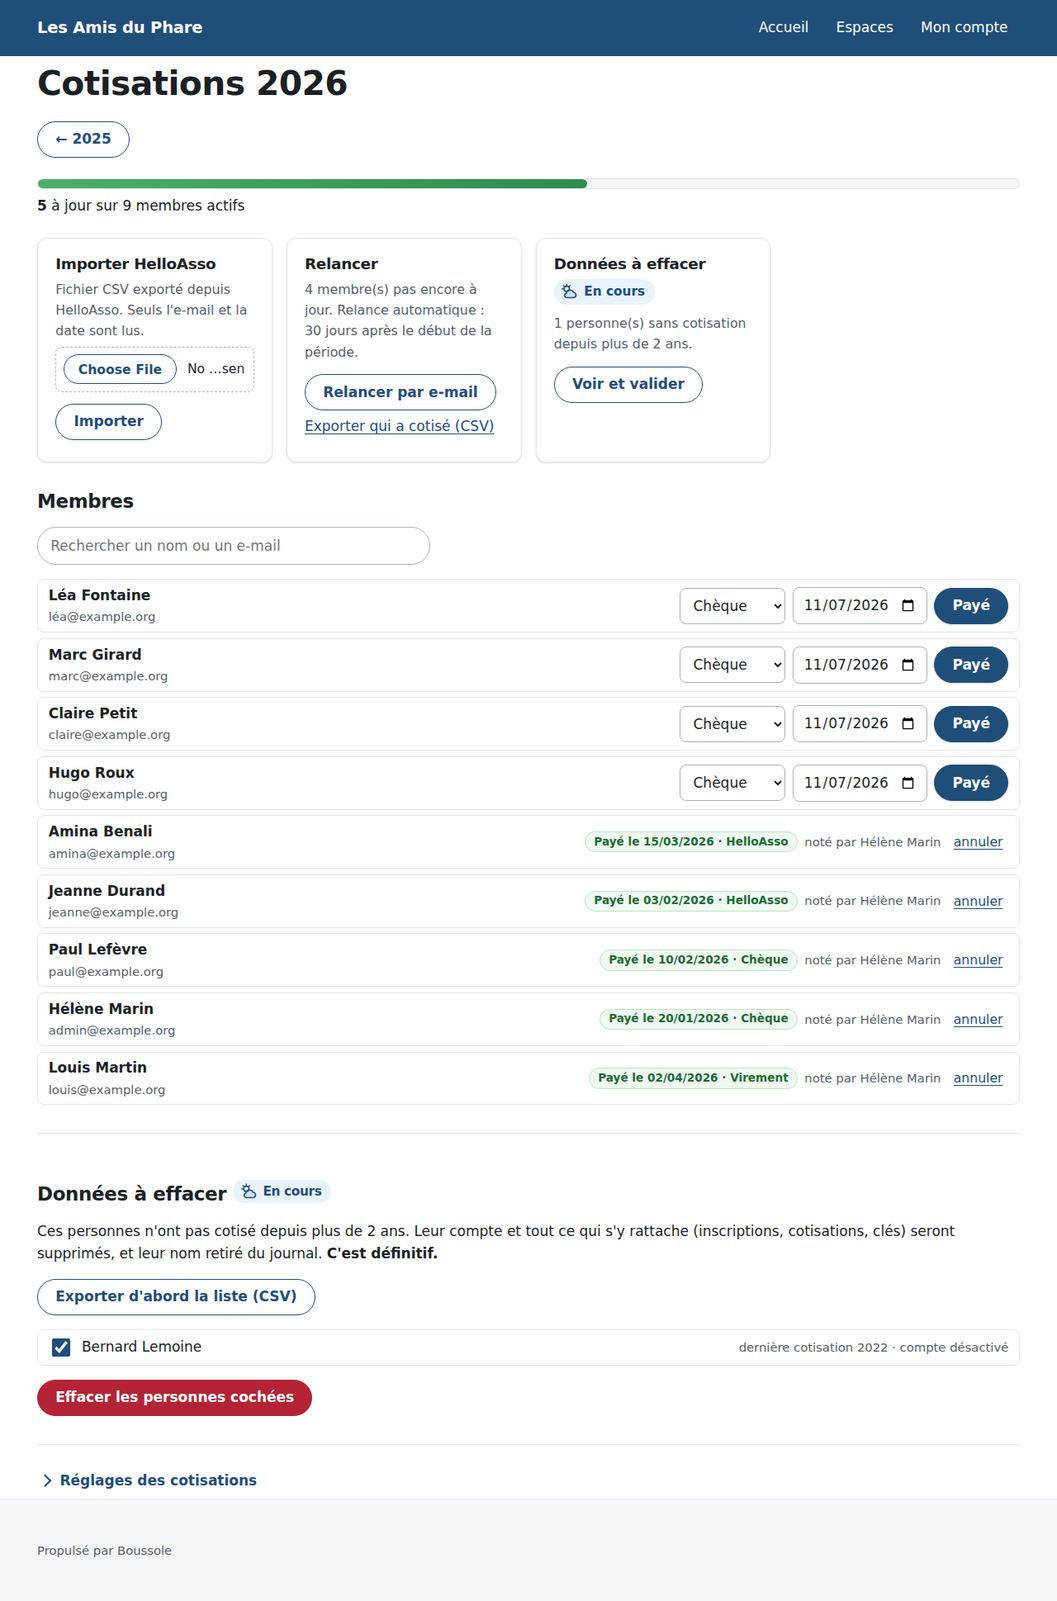
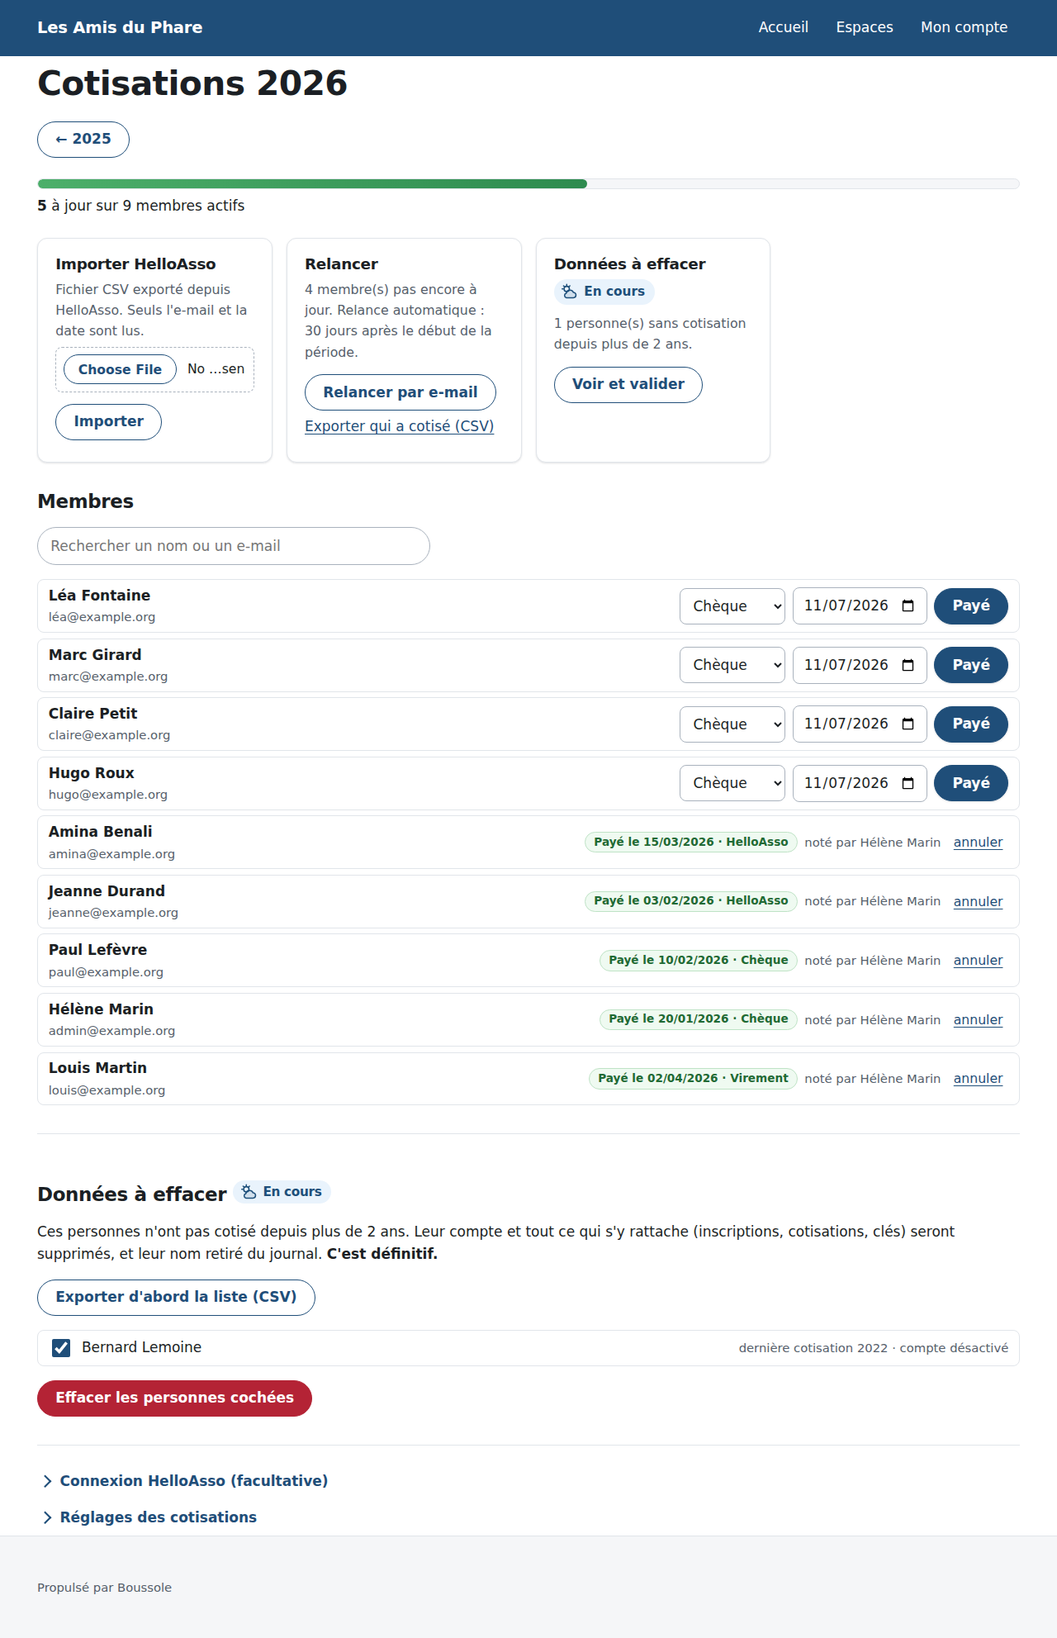
Étape 9 : connexion HelloAsso facultative (API officielle, lecture toutes les 10 minutes et à chaque notification, notification jamais crue, jeton réutilisé, secret chiffré) pour les adhésions et les billetteries d'événements
Tests : e2e-etape9.sh 18 OK avec un faux serveur HelloAsso local ; régression de toutes les étapes OK.

diff --git a/app/core/helloasso.php b/app/core/helloasso.php
@@ -1,0 +1,120 @@
+<?php
+// Connexion HelloAsso (facultative) : lit les paiements des formulaires d'adhésion et de billetterie.
+// Seuls l'e-mail du payeur et la date sont gardés. Une notification HelloAsso ne fait que déclencher
+// une lecture de l'API : son contenu n'est jamais cru (HelloAsso ne signe pas ses notifications).
+declare(strict_types=1);
+
+function helloasso_actif(): bool
+{
+    return setting('helloasso_client_id', '') !== '' && setting('helloasso_secret', '') !== '' && setting('helloasso_organisation', '') !== '';
+}
+
+function helloasso_api(): string
+{
+    return rtrim((string) (config()['helloasso_api'] ?? 'https://api.helloasso.com'), '/');
+}
+
+function helloasso_http(string $method, string $url, array $headers, ?string $body = null): array
+{
+    $context = stream_context_create(['http' => [
+        'method' => $method, 'header' => implode("\r\n", $headers), 'content' => $body ?? '',
+        'timeout' => 15, 'ignore_errors' => true, 'user_agent' => 'Boussole/' . BOUSSOLE_VERSION,
+    ], 'ssl' => ['verify_peer' => true, 'verify_peer_name' => true]]);
+    $response = @file_get_contents($url, false, $context);
+    $status = isset($http_response_header[0]) && preg_match('/\s(\d{3})\s?/', $http_response_header[0], $m) ? (int) $m[1] : 0;
+    return [$status, $response === false ? null : json_decode($response, true)];
+}
+
+// Jeton d'accès gardé chiffré 25 minutes (valable 30) : peu d'appels au service d'authentification, limité par HelloAsso
+function helloasso_jeton(): ?string
+{
+    $cache = secret_decrypt((string) setting('helloasso_jeton', ''));
+    if ($cache !== null && (int) setting('helloasso_jeton_expire', '0') > time()) {
+        return $cache;
+    }
+    $secret = secret_decrypt((string) setting('helloasso_secret', ''));
+    [$status, $data] = helloasso_http('POST', helloasso_api() . '/oauth2/token', ['Content-Type: application/x-www-form-urlencoded'],
+        http_build_query(['grant_type' => 'client_credentials', 'client_id' => (string) setting('helloasso_client_id', ''), 'client_secret' => (string) $secret]));
+    if ($status !== 200 || !is_string($data['access_token'] ?? null)) {
+        setting_set('helloasso_erreur', 'Connexion refusée par HelloAsso (identifiant ou secret à vérifier), code ' . $status);
+        return null;
+    }
+    setting_set('helloasso_jeton', secret_encrypt($data['access_token']));
+    setting_set('helloasso_jeton_expire', (string) (time() + 25 * 60));
+    return $data['access_token'];
+}
+
+// Paiements autorisés d'un formulaire depuis une date : [[email, date], …]
+function helloasso_paiements(string $jeton, string $type, string $formulaire, string $depuis): ?array
+{
+    $base = helloasso_api() . '/v5/organizations/' . rawurlencode((string) setting('helloasso_organisation', '')) . '/forms/' . $type . '/' . rawurlencode($formulaire) . '/payments';
+    $query = ['from' => $depuis, 'states' => 'Authorized', 'pageSize' => 100, 'sortOrder' => 'Asc', 'sortField' => 'Date'];
+    $paiements = [];
+    for ($page = 0; $page < 50; $page++) {
+        [$status, $data] = helloasso_http('GET', $base . '?' . http_build_query($query), ['Authorization: Bearer ' . $jeton, 'Accept: application/json']);
+        if ($status !== 200 || !is_array($data)) {
+            setting_set('helloasso_erreur', "Formulaire « $formulaire » illisible (code $status) : nom du formulaire ou droits de la clé à vérifier");
+            return null;
+        }
+        foreach ((array) ($data['data'] ?? []) as $p) {
+            $email = mb_strtolower(trim((string) ($p['payer']['email'] ?? '')));
+            $date = cotisation_lire_date(substr((string) ($p['date'] ?? ''), 0, 10));
+            if (filter_var($email, FILTER_VALIDATE_EMAIL) && $date !== null && ($p['state'] ?? 'Authorized') === 'Authorized') {
+                $paiements[] = [$email, $date];
+            }
+        }
+        $suite = $data['pagination']['continuationToken'] ?? null;
+        if (count((array) ($data['data'] ?? [])) < 100 || !is_string($suite) || $suite === '') {
+            break;
+        }
+        $query['continuationToken'] = $suite;
+    }
+    return $paiements;
+}
+
+// Synchronisation : adhésions → cotisations ; billetteries → « payé » sur les inscriptions. Renvoie le nombre de mises à jour.
+function helloasso_synchroniser(bool $force = false): int
+{
+    if (!helloasso_actif()) {
+        return 0;
+    }
+    $intervalle = max(5, (int) setting('helloasso_intervalle', '10')) * 60;
+    if (!$force && (int) setting('helloasso_derniere', '0') + $intervalle - 30 > time()) {
+        return 0;
+    }
+    setting_set('helloasso_derniere', (string) time());
+    $jeton = helloasso_jeton();
+    if ($jeton === null) {
+        return 0;
+    }
+    // On relit les 3 derniers jours à chaque passage : un paiement tardif ou une coupure ne fait rien perdre
+    $depuis = date('Y-m-d\T00:00:00', strtotime('-3 days'));
+    $n = 0;
+    $formulaire = (string) setting('helloasso_adhesion', '');
+    if ($formulaire !== '') {
+        $paiements = helloasso_paiements($jeton, 'Membership', $formulaire, (string) setting('helloasso_premiere', '') === '' ? cotisation_debut_periode(cotisation_periode()) . 'T00:00:00' : $depuis);
+        if ($paiements === null) {
+            return $n;
+        }
+        setting_set('helloasso_premiere', '1');
+        foreach ($paiements as [$email, $date]) {
+            $member = db_one('SELECT * FROM membre WHERE email = ?', [$email]);
+            if ($member !== null && cotisation_a_jour($member, cotisation_periode($date)) === null) {
+                cotisation_marquer($member, cotisation_periode($date), $date, 'helloasso', null);
+                $n++;
+            }
+        }
+    }
+    foreach (db_all('SELECT e.* FROM evenement e JOIN espace s ON s.id = e.espace_id WHERE e.helloasso_formulaire IS NOT NULL AND e.helloasso_formulaire <> "" AND s.archive = 0 AND (e.debut IS NULL OR e.debut >= CURDATE() - INTERVAL 7 DAY)') as $ev) {
+        $paiements = helloasso_paiements($jeton, 'Event', $ev['helloasso_formulaire'], date('Y-m-d\T00:00:00', strtotime('-1 year')));
+        if ($paiements === null) {
+            return $n;
+        }
+        foreach ($paiements as [$email, $date]) {
+            $n += db_query('UPDATE inscription i JOIN membre m ON m.id = i.membre_id SET i.paye_le = ? WHERE i.evenement_id = ? AND m.email = ? AND i.paye_le IS NULL', [$date, $ev['espace_id'], $email])->rowCount();
+        }
+    }
+    setting_set('helloasso_erreur', '');
+    setting_set('helloasso_reussie', date('Y-m-d H:i:s'));
+    return $n;
+}

diff --git a/app/modules/cotisations/views/liste.php b/app/modules/cotisations/views/liste.php
@@ -86,7 +86,27 @@ $actuelle = cotisation_periode();
 </section>
 <?php endif ?>
 
-<details class="separe"><summary>Réglages des cotisations</summary>
+<details class="separe" id="helloasso"><summary>Connexion HelloAsso (facultative)</summary>
+  <?php if (helloasso_actif()): ?>
+  <p><?= setting('helloasso_erreur', '') !== '' ? '<span class="badge">À vérifier</span> ' . e((string) setting('helloasso_erreur')) : '<span class="badge badge-ok">Active</span> ' . (setting('helloasso_reussie', '') !== '' ? 'dernière lecture le ' . e(date('d/m/Y à H:i', strtotime((string) setting('helloasso_reussie')))) : 'pas encore lue') ?></p>
+  <form method="post" action="<?= e(url('/cotisations/helloasso/synchroniser')) ?>"><?= csrf_field() ?><button type="submit" class="bouton bouton-secondaire">Lire HelloAsso maintenant</button></form>
+  <p class="petit">Pour une mise à jour immédiate à chaque paiement, collez cette adresse dans HelloAsso, « Mon compte › Intégrations et API › notifications » :<br><code class="cle"><?= e(absolute_url('/helloasso/notification/' . setting('helloasso_notification_cle', ''))) ?></code></p>
+  <?php else: ?>
+  <p class="petit">Sans connexion, utilisez l'import du fichier CSV. Avec : les paiements HelloAsso cochent « payé » tout seuls, toutes les quelques minutes. Seuls l'e-mail et la date sont lus.</p>
+  <?php endif ?>
+  <form method="post" action="<?= e(url('/cotisations/helloasso')) ?>" class="formulaire">
+    <?= csrf_field() ?>
+    <?= c_champ('helloasso_organisation', "Nom de l'association dans HelloAsso", ['valeur' => (string) setting('helloasso_organisation', ''), 'aide' => 'Ce qui suit /associations/ dans l\'adresse de votre page HelloAsso (vous pouvez coller l\'adresse entière).']) ?>
+    <?= c_champ('helloasso_adhesion', "Formulaire d'adhésion", ['valeur' => (string) setting('helloasso_adhesion', ''), 'aide' => 'Ce qui suit /adhesions/ dans l\'adresse du formulaire (ou l\'adresse entière).']) ?>
+    <?= c_champ('helloasso_client_id', 'Identifiant (client id)', ['valeur' => (string) setting('helloasso_client_id', ''), 'aide' => 'HelloAsso › Mon compte › Intégrations et API.']) ?>
+    <?= c_champ('helloasso_secret', 'Secret (client secret)', ['type' => 'password', 'aide' => setting('helloasso_secret', '') !== '' ? 'Enregistré (chiffré). Laisser vide pour le garder.' : 'Gardé chiffré.']) ?>
+    <?= c_champ('helloasso_intervalle', 'Lire HelloAsso toutes les (minutes)', ['type' => 'number', 'valeur' => (string) setting('helloasso_intervalle', '10')]) ?>
+    <?php if (helloasso_actif()): ?><label class="case"><input type="checkbox" name="desactiver" value="1"> Désactiver la connexion (efface le secret)</label><?php endif ?>
+    <button type="submit" class="bouton bouton-secondaire">Enregistrer</button>
+  </form>
+</details>
+
+<details><summary>Réglages des cotisations</summary>
 <form method="post" action="<?= e(url('/cotisations/reglages')) ?>" class="formulaire">
   <?= csrf_field() ?>
   <?= c_champ('cotisation_mois_debut', 'La période de cotisation commence en', ['type' => 'select', 'valeur' => (string) cotisation_mois_debut(), 'choix' => array_combine(range(1, 12), ['janvier', 'février', 'mars', 'avril', 'mai', 'juin', 'juillet', 'août', 'septembre', 'octobre', 'novembre', 'décembre'])]) ?>

diff --git a/app/modules/cotisations/module.php b/app/modules/cotisations/module.php
@@ -93,6 +93,46 @@ return [
             flash('succes', "$n membre(s) effacé(s).");
             redirect('/cotisations');
         }],
+        ['POST', '/cotisations/helloasso', function () {
+            $par = require_right('cotisations');
+            $slug = fn(string $k) => strtolower(trim(preg_replace('#^.*/#', '', trim((string) ($_POST[$k] ?? '')))));
+            foreach (['helloasso_organisation' => $slug('helloasso_organisation'), 'helloasso_adhesion' => $slug('helloasso_adhesion'),
+                'helloasso_client_id' => mb_substr(trim((string) ($_POST['helloasso_client_id'] ?? '')), 0, 100),
+                'helloasso_intervalle' => (string) max(5, min(1440, (int) ($_POST['helloasso_intervalle'] ?? 10)))] as $cle => $valeur) {
+                setting_set($cle, $valeur);
+            }
+            if (trim((string) ($_POST['helloasso_secret'] ?? '')) !== '') {
+                setting_set('helloasso_secret', secret_encrypt(trim((string) $_POST['helloasso_secret'])));
+            }
+            if (($_POST['desactiver'] ?? '') === '1') {
+                setting_set('helloasso_secret', '');
+            }
+            // Nouveaux identifiants : nouveau jeton, et première lecture depuis le début de la période
+            setting_set('helloasso_jeton', '');
+            setting_set('helloasso_premiere', '');
+            if (setting('helloasso_notification_cle', '') === '') {
+                setting_set('helloasso_notification_cle', bin2hex(random_bytes(16)));
+            }
+            journal(null, $par, 'Connexion HelloAsso modifiée');
+            flash('succes', 'Connexion HelloAsso enregistrée.');
+            redirect('/cotisations#helloasso');
+        }],
+        ['POST', '/cotisations/helloasso/synchroniser', function () {
+            require_right('cotisations');
+            $n = helloasso_synchroniser(true);
+            $erreur = (string) setting('helloasso_erreur', '');
+            $erreur !== '' ? flash('erreur', $erreur) : flash('succes', "HelloAsso lu : $n mise(s) à jour.");
+            redirect('/cotisations#helloasso');
+        }],
+        // Adresse à donner à HelloAsso (« Mon compte > Intégrations et API ») : un paiement déclenche une lecture immédiate
+        ['POST', '/helloasso/notification/{cle}', function (array $p) {
+            $cle = (string) setting('helloasso_notification_cle', '');
+            if ($cle !== '' && hash_equals($cle, $p['cle']) && !too_many_attempts('helloasso|notification', 20, 10)) {
+                helloasso_synchroniser(true);
+            }
+            // Toujours 200 : HelloAsso ne réessaie pas inutilement, et l'appelant n'apprend rien
+            http_response_code(200);
+        }],
         ['POST', '/cotisations/reglages', function () {
             $par = require_right('cotisations');
             $mois = (int) ($_POST['cotisation_mois_debut'] ?? 1);

diff --git a/app/modules/evenements/views/bloc.php b/app/modules/evenements/views/bloc.php
@@ -84,6 +84,7 @@ $aide = c_aide('comment les places sont attribuées', '<p><strong>Pas de course 
     <?php foreach ($liste as $l): ?>
     <li class="en-ligne candidat case"><span class="qui"><?= $groupe($l['groupe'] !== null ? (int) $l['groupe'] : null) ?> <?= e(membre_nom($l)) ?></span>
       <span class="en-ligne"><span class="badge"><?= e(INSCRIPTION_STATUTS[$l['statut']] . ($l['statut'] === 'attente' ? ' n°' . (int) $l['rang'] : '')) ?></span>
+      <?php if ($l['paye_le'] !== null): ?><span class="badge badge-ok">payé le <?= e(date('d/m', strtotime($l['paye_le']))) ?></span><?php endif ?>
       <?php if ($l['statut'] === 'retenu' && !$commence): ?>
       <form method="post" action="<?= $lien('/annuler') ?>"><?= csrf_field() ?><input type="hidden" name="membre_id" value="<?= (int) $l['membre_id'] ?>"><button type="submit" class="lien-bouton" data-confirmer="Annuler l'inscription de <?= e(membre_nom($l)) ?> ? Sa place ira au suivant de la liste d'attente.">annuler</button></form>
       <?php endif ?></span></li>
@@ -98,6 +99,7 @@ $aide = c_aide('comment les places sont attribuées', '<p><strong>Pas de course 
     <?= c_champ('lieu', 'Lieu', ['valeur' => $ev['lieu'], 'max' => 200]) ?>
     <?= c_champ('mode', 'Inscriptions', ['type' => 'select', 'valeur' => $ev['mode'], 'choix' => EVENEMENT_MODES]) ?>
     <?= c_champ('places', 'Nombre de places (places limitées)', ['type' => 'number', 'valeur' => (string) ($ev['places'] ?? '')]) ?>
+    <?php if (helloasso_actif()): ?><?= c_champ('helloasso_formulaire', 'Billetterie HelloAsso (facultatif)', ['valeur' => (string) ($ev['helloasso_formulaire'] ?? ''), 'aide' => 'Adresse ou nom du formulaire d\'événement : les inscrits qui ont payé sont marqués « payé ».']) ?><?php endif ?>
     <?= c_champ('cloture', 'Clôture des vœux (places limitées)', ['type' => 'datetime-local', 'valeur' => $ev['cloture'] ? date('Y-m-d\TH:i', strtotime($ev['cloture'])) : '']) ?>
     <button type="submit" class="bouton bouton-secondaire">Enregistrer</button>
   </form>

diff --git a/tests/helloasso-simule.php b/tests/helloasso-simule.php
@@ -1,0 +1,34 @@
+<?php
+// Faux serveur HelloAsso pour les tests (serveur intégré de PHP) : jeton OAuth2 et liste des paiements.
+// Données : $DOSSIER/paiements-<type>-<formulaire>.json ; compteurs d'appels : $DOSSIER/appels-*.txt
+$dossier = getenv('HELLOASSO_SIMULE');
+$path = parse_url($_SERVER['REQUEST_URI'], PHP_URL_PATH);
+$compter = fn(string $quoi) => file_put_contents("$dossier/appels-$quoi.txt", '.', FILE_APPEND);
+header('Content-Type: application/json');
+if ($path === '/oauth2/token' && $_SERVER['REQUEST_METHOD'] === 'POST') {
+    $compter('jeton');
+    if (($_POST['grant_type'] ?? '') !== 'client_credentials' || ($_POST['client_id'] ?? '') !== 'id-test' || ($_POST['client_secret'] ?? '') !== 'secret-test') {
+        http_response_code(401);
+        echo '{"error":"unauthorized_client"}';
+        return;
+    }
+    echo json_encode(['access_token' => 'jeton-simule', 'token_type' => 'bearer', 'expires_in' => 1800]);
+    return;
+}
+if (preg_match('#^/v5/organizations/les-amis-du-phare/forms/(Membership|Event)/([a-z0-9-]+)/payments$#', $path, $m)) {
+    $compter('paiements');
+    if (($_SERVER['HTTP_AUTHORIZATION'] ?? '') !== 'Bearer jeton-simule') {
+        http_response_code(401);
+        return;
+    }
+    $file = "$dossier/paiements-{$m[1]}-{$m[2]}.json";
+    $data = is_file($file) ? json_decode(file_get_contents($file), true) : null;
+    if ($data === null) {
+        http_response_code(404);
+        echo '{"errors":[{"message":"not found"}]}';
+        return;
+    }
+    echo json_encode(['data' => $data, 'pagination' => ['pageSize' => 100, 'totalCount' => count($data), 'pageIndex' => 1, 'totalPages' => 1, 'continuationToken' => 'x']]);
+    return;
+}
+http_response_code(404);

diff --git a/app/modules/evenements/module.php b/app/modules/evenements/module.php
@@ -23,9 +23,10 @@ return [
                 flash('erreur', implode(' ', $erreurs));
                 redirect('/espace/' . $espace['slug']);
             }
-            db_query('INSERT INTO evenement (espace_id, debut, lieu, mode, places, cloture) VALUES (?, ?, ?, ?, ?, ?)
-                ON DUPLICATE KEY UPDATE debut = VALUES(debut), lieu = VALUES(lieu), mode = VALUES(mode), places = VALUES(places), cloture = VALUES(cloture)',
-                [$espace['id'], $debut, mb_substr(trim((string) ($_POST['lieu'] ?? '')), 0, 200), $mode, $places ?: null, $cloture]);
+            $billetterie = strtolower(trim(preg_replace('#^.*/#', '', trim((string) ($_POST['helloasso_formulaire'] ?? '')))));
+            db_query('INSERT INTO evenement (espace_id, debut, lieu, mode, places, cloture, helloasso_formulaire) VALUES (?, ?, ?, ?, ?, ?, ?)
+                ON DUPLICATE KEY UPDATE debut = VALUES(debut), lieu = VALUES(lieu), mode = VALUES(mode), places = VALUES(places), cloture = VALUES(cloture), helloasso_formulaire = VALUES(helloasso_formulaire)',
+                [$espace['id'], $debut, mb_substr(trim((string) ($_POST['lieu'] ?? '')), 0, 200), $mode, $places ?: null, $cloture, mb_substr($billetterie, 0, 150) ?: ($ev['helloasso_formulaire'] ?? null)]);
             journal($espace['id'], $member, "Réglages de l'événement modifiés");
             // Plus de places après attribution : la liste d'attente en profite
             evenement_promouvoir(evenement_de($espace));

diff --git a/app/core/router.php b/app/core/router.php
@@ -24,7 +24,8 @@ final class Router
                 continue;
             }
             // L'API et le MCP s'authentifient par clé (en-tête Authorization), jamais par cookie : pas de CSRF possible
-            if ($routeMethod === 'POST' && !str_starts_with($path, '/api/') && $path !== '/mcp') {
+            // La notification HelloAsso vient d'un serveur et n'est jamais lue : elle déclenche seulement une vérification
+            if ($routeMethod === 'POST' && !str_starts_with($path, '/api/') && $path !== '/mcp' && !str_starts_with($path, '/helloasso/notification/')) {
                 csrf_check();
             }
             $handler(array_filter($matches, 'is_string', ARRAY_FILTER_USE_KEY));

diff --git a/tests/captures_etape7.py b/tests/captures_etape7.py
@@ -41,6 +41,8 @@ with sync_playwright() as p:
     mobile = browser.new_context(viewport={'width': 390, 'height': 844}, device_scale_factor=2, is_mobile=True, locale='fr-FR', storage_state=ctx.storage_state()).new_page()
     mobile.goto(SITE + '/cotisations')
     mobile.screenshot(path=f'{OUT}/02-cotisations-telephone.png', full_page=True)
+    mobile.locator('#helloasso summary').click()
+    mobile.locator('#helloasso').screenshot(path=f'{OUT}/04-helloasso-telephone.png')
     mobile.goto(SITE + '/compte')
     mobile.screenshot(path=f'{OUT}/03-compte-telephone.png', full_page=True)
     browser.close()

diff --git a/app/core/evenements.php b/app/core/evenements.php
@@ -22,7 +22,7 @@ const EVENEMENT_GROUPES = [
 function evenement_de(array $espace): array
 {
     return db_one('SELECT * FROM evenement WHERE espace_id = ?', [$espace['id']])
-        ?? ['espace_id' => $espace['id'], 'debut' => null, 'lieu' => '', 'mode' => 'ouvert', 'places' => null, 'cloture' => null, 'etat' => 'ouvert'];
+        ?? ['espace_id' => $espace['id'], 'debut' => null, 'lieu' => '', 'mode' => 'ouvert', 'places' => null, 'cloture' => null, 'etat' => 'ouvert', 'helloasso_formulaire' => null];
 }
 
 function evenement_limite(array $ev): bool

diff --git a/app/bin/cli.php b/app/bin/cli.php
@@ -45,6 +45,7 @@ switch ($command) {
         echo 'cron : ' . evenements_cloturer_echus() . " événement(s) clôturé(s)\n";
         echo 'cron : ' . cotisations_relances_auto() . " relance(s) de cotisation\n";
         echo 'cron : ' . rappels_envoyer() . " rappel(s) envoyé(s)\n";
+        echo 'cron : ' . helloasso_synchroniser() . " mise(s) à jour HelloAsso\n";
         break;
     default:
         fwrite(STDERR, "Usage : php bin/cli.php migrate|config-sql|cron\n");

diff --git a/app/core/app.php b/app/core/app.php
@@ -23,6 +23,7 @@ require __DIR__ . '/images.php';
 require __DIR__ . '/evenements.php';
 require __DIR__ . '/cotisations.php';
 require __DIR__ . '/rappels.php';
+require __DIR__ . '/helloasso.php';
 require __DIR__ . '/api.php';
 
 // Configuration écrite par install.sh ou par l'assistant d'installation ; null tant qu'elle n'existe pas

diff --git a/docs/decisions.md b/docs/decisions.md
@@ -30,6 +30,7 @@
 ## Pages du site : éditeur à blocs
 - Éditeur à blocs open source (Editor.js, licence Apache 2.0), embarqué dans le dépôt : aucun CDN, aucun service externe.
 - Le contenu est enregistré en blocs (JSON) et affiché avec nos propres composants : jamais de HTML libre.
+- HelloAsso (facultatif) : lecture des paiements par l'API officielle toutes les 10 minutes (réglable) et à chaque notification ; la notification ne fait que déclencher une lecture, son contenu n'est jamais cru ; seuls l'e-mail et la date sont gardés ; secret chiffré ; le CSV reste disponible.
 - Rappels : par e-mail, délais réglables en jours avant l'échéance (dates clés : 14 et 3 jours ; organisation d'un événement : 60, 14 et 3 ; participants : 7 et 1), au binôme ou à toute l'équipe ; jamais deux fois le même, et un seul si le cron a manqué des passages.
 - Cotisations : seulement payé / période / date / moyen, saisi par la personne qui a reçu le paiement ; import HelloAsso par fichier CSV (aucune connexion à un service extérieur) ; une relance automatique par période (délai réglable), relance manuelle ; effacement réel après la durée de conservation (2 ans par défaut), validé par le responsable avec météo, export possible avant.
 - Inscriptions : vœux sans course au clic ; groupes 0 (invités) à 3 calculés sur la moyenne des participations sur 12 mois ; tirage reproductible ; liste d'attente avec promotion seulement si une place est réellement libre. Inscrit = participation (pas de pointage des présences pour l'instant).
